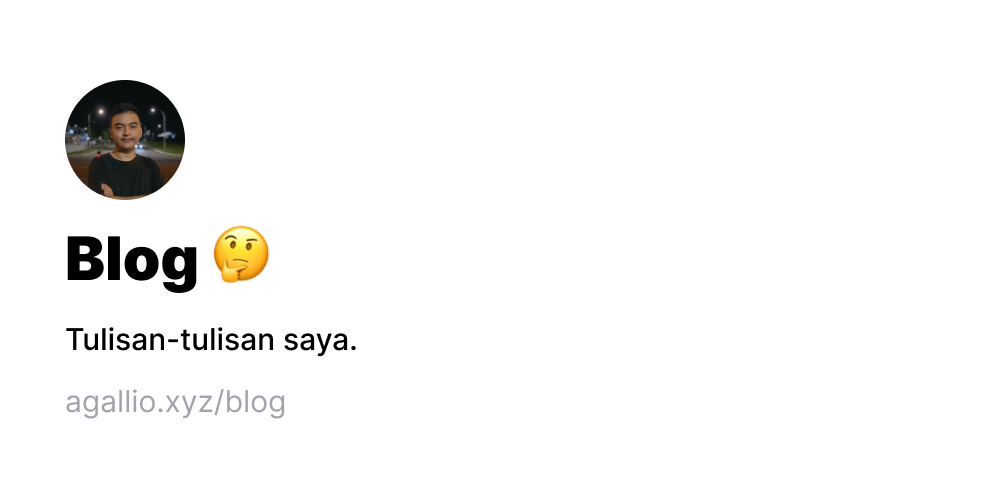
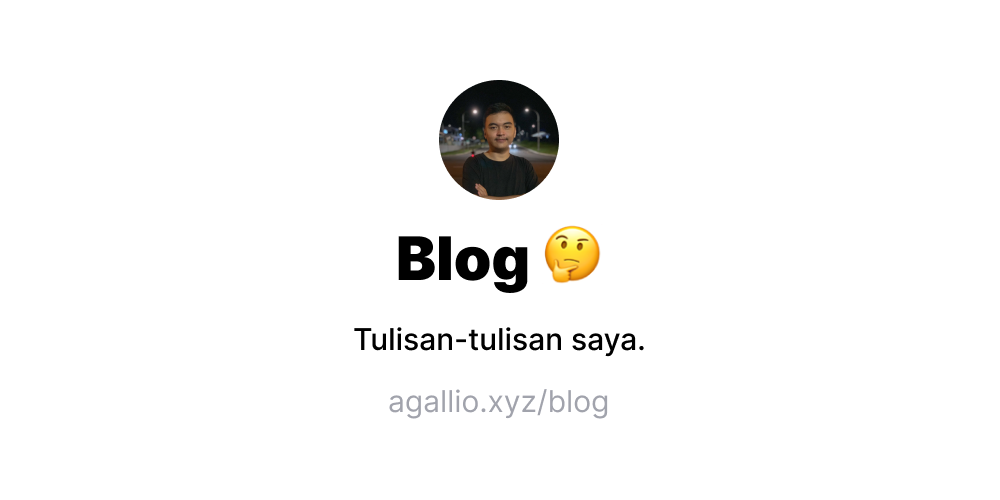
Update SEO config & switch to tailwind post

diff --git a/blog/src/pages/blog/index.js b/blog/src/pages/blog/index.js
@@ -11,35 +11,20 @@ import blogLocale from '@/locales/blog'
 import dayjs from '@/utils/dayjs'
 import { postFilePaths, POSTS_PATH } from '@/utils/mdx'
 
-export default function Blog({ posts, locale }) {
+export default function Blog({ posts, locale, seo }) {
   return (
     <>
       <Head>
-        <title>Blog | Agallio Samai</title>
+        <title>{seo[locale].title}</title>
       </Head>
-      <NextSeo
-        title="Blog | Agallio Samai"
-        description="Tulisan-tulisan saya."
-        openGraph={{
-          url: 'https://agallio.xyz/blog',
-          title: 'Blog | Agallio Samai',
-          description: 'Tulisan-tulisan saya.',
-          site_name: 'Agallio Samai',
-          images: [
-            {
-              url: 'http://agallio.xyz/images/og-blog.png',
-              alt: 'Blog - Agallio Samai',
-            },
-          ],
-        }}
-        twitter={{
-          cardType: 'summary_large_image',
-        }}
-      />
+      <NextSeo {...seo[locale]} />
 
       <div className="flex flex-col pt-28">
         <h1 className="mb-4 text-4xl tracking-wide font-black md:text-4xl dark:text-white">
-          Blog
+          Blog{' '}
+          <span role="img" aria-label="handwriting">
+            ✍🏻
+          </span>
         </h1>
         <p className="text-lg md:text-xl mb-4 text-gray-700 dark:text-gray-100">
           {blogLocale.description[locale]}
@@ -105,5 +90,46 @@ export function getStaticProps({ locale }) {
     }
   })
 
-  return { props: { posts, locale } }
+  const seo = {
+    id: {
+      title: 'Tentang Saya | Agallio Samai',
+      description: 'Tentang saya.',
+      openGraph: {
+        url: 'https://agallio.xyz/about',
+        title: 'Tentang Saya | Agallio Samai',
+        description: 'Tentang saya.',
+        site_name: 'Agallio Samai',
+        images: [
+          {
+            url: 'http://agallio.xyz/images/og-about.png',
+            alt: 'Tentang Saya - Agallio Samai',
+          },
+        ],
+      },
+      twitter: {
+        cardType: 'summary_large_image',
+      },
+    },
+    en: {
+      title: 'About Me | Agallio Samai',
+      description: 'About me.',
+      openGraph: {
+        url: 'https://agallio.xyz/en/about',
+        title: 'About Me | Agallio Samai',
+        description: 'About me.',
+        site_name: 'Agallio Samai',
+        images: [
+          {
+            url: 'http://agallio.xyz/images/og-en-about.png',
+            alt: 'About Me - Agallio Samai',
+          },
+        ],
+      },
+      twitter: {
+        cardType: 'summary_large_image',
+      },
+    },
+  }
+
+  return { props: { posts, locale, seo } }
 }

diff --git a/blog/src/locales/blog.js b/blog/src/locales/blog.js
@@ -1,5 +1,44 @@
-/* eslint-disable prettier/prettier */
 const blogLocale = {
+  seo: {
+    id: {
+      title: 'Blog | Agallio Samai',
+      description: 'Tulisan-tulisan saya.',
+      openGraph: {
+        url: 'https://agallio.xyz/blog',
+        title: 'Blog | Agallio Samai',
+        description: 'Tulisan-tulisan saya.',
+        site_name: 'Agallio Samai',
+        images: [
+          {
+            url: 'http://agallio.xyz/images/og-blog.png',
+            alt: 'Blog - Agallio Samai',
+          },
+        ],
+      },
+      twitter: {
+        cardType: 'summary_large_image',
+      },
+    },
+    en: {
+      title: 'Blog | Agallio Samai',
+      description: 'My writings.',
+      openGraph: {
+        url: 'https://agallio.xyz/en/blog',
+        title: 'Blog | Agallio Samai',
+        description: 'My writings.',
+        site_name: 'Agallio Samai',
+        images: [
+          {
+            url: 'http://agallio.xyz/images/og-en-blog.png',
+            alt: 'Blog - Agallio Samai',
+          },
+        ],
+      },
+      twitter: {
+        cardType: 'summary_large_image',
+      },
+    },
+  },
   description: {
     id: 'Isi dari halaman ini mayoritas tulisan saya di dunia software engineering dan karir saya dalam teknologi. Tulisan-tulisan ini berisi pendapat saya pribadi.',
     en: 'The content of this page is my writing in the world of software engineering and my career in technology. These writings contain my personal opinion.',

diff --git a/blog/src/locales/about.js b/blog/src/locales/about.js
@@ -1,5 +1,44 @@
 const aboutLocale = {
-  title: { id: 'Tentang | Agallio Samai', en: 'About Me | Agallio Samai' },
+  seo: {
+    id: {
+      title: 'Tentang Saya | Agallio Samai',
+      description: 'Tentang saya.',
+      openGraph: {
+        url: 'https://agallio.xyz/about',
+        title: 'Tentang Saya | Agallio Samai',
+        description: 'Tentang saya.',
+        site_name: 'Agallio Samai',
+        images: [
+          {
+            url: 'http://agallio.xyz/images/og-about.png',
+            alt: 'Tentang Saya - Agallio Samai',
+          },
+        ],
+      },
+      twitter: {
+        cardType: 'summary_large_image',
+      },
+    },
+    en: {
+      title: 'About Me | Agallio Samai',
+      description: 'About me.',
+      openGraph: {
+        url: 'https://agallio.xyz/en/about',
+        title: 'About Me | Agallio Samai',
+        description: 'About me.',
+        site_name: 'Agallio Samai',
+        images: [
+          {
+            url: 'http://agallio.xyz/images/og-en-about.png',
+            alt: 'About Me - Agallio Samai',
+          },
+        ],
+      },
+      twitter: {
+        cardType: 'summary_large_image',
+      },
+    },
+  },
   about_me: { id: 'Tentang Saya', en: 'About Me' },
   description: {
     id: `

diff --git a/blog/src/pages/blog/[slug].js b/blog/src/pages/blog/[slug].js
@@ -14,6 +14,8 @@ import autolinkHeadings from 'rehype-autolink-headings'
 
 import MDXComponents from '@/components/MDXComponents'
 
+import aboutLocale from '@/locales/about'
+
 import dayjs from '@/utils/dayjs'
 import { postFilePaths, POSTS_PATH } from '@/utils/mdx'
 
@@ -39,20 +41,13 @@ const BlogPost = ({ source, frontMatter, locale }) => {
         title={`${frontMatter.title} | Agallio Samai`}
         description={frontMatter.summary}
         openGraph={{
-          url: 'https://agallio.xyz/blog',
+          url: aboutLocale.seo[locale].openGraph.url,
           title: frontMatter.title,
           description: frontMatter.summary,
-          site_name: 'Agallio Samai',
-          images: [
-            {
-              url: 'http://agallio.xyz/images/og-blog.png',
-              alt: 'Blog - Agallio Samai',
-            },
-          ],
+          site_name: aboutLocale.seo[locale].openGraph.site_name,
+          images: aboutLocale.seo[locale].openGraph.images,
         }}
-        twitter={{
-          cardType: 'summary_large_image',
-        }}
+        twitter={aboutLocale.seo[locale].twitter}
       />
 
       <div className="flex flex-col pt-32">

diff --git a/blog/src/components/Header.js b/blog/src/components/Header.js
@@ -207,11 +207,11 @@ const Header = ({ router }) => {
                 onClick={handleI18n}
               >
                 {locale === 'id' ? (
-                  <span role="img" aria-label="Indonesia">
+                  <span role="img" aria-label="indonesian">
                     🇮🇩
                   </span>
                 ) : (
-                  <span role="img" aria-label="Inggris">
+                  <span role="img" aria-label="english">
                     🇺🇸
                   </span>
                 )}
@@ -277,11 +277,11 @@ const Header = ({ router }) => {
               onClick={handleI18n}
             >
               {locale === 'id' ? (
-                <span role="img" aria-label="Indonesia">
+                <span role="img" aria-label="indonesian">
                   🇮🇩
                 </span>
               ) : (
-                <span role="img" aria-label="Inggris">
+                <span role="img" aria-label="english">
                   🇺🇸
                 </span>
               )}

diff --git a/blog/src/pages/about.js b/blog/src/pages/about.js
@@ -16,27 +16,9 @@ export default function About() {
   return (
     <>
       <Head>
-        <title>{aboutLocale.title[locale]}</title>
+        <title>{aboutLocale.seo[locale].title}</title>
       </Head>
-      <NextSeo
-        title={aboutLocale.title[locale]}
-        description="Tentang saya."
-        openGraph={{
-          url: 'https://agallio.xyz/about',
-          title: 'Tentang | Agallio Samai',
-          description: 'Tentang saya.',
-          site_name: 'Agallio Samai',
-          images: [
-            {
-              url: 'http://agallio.xyz/images/og-about.png',
-              alt: 'Tentang - Agallio Samai',
-            },
-          ],
-        }}
-        twitter={{
-          cardType: 'summary_large_image',
-        }}
-      />
+      <NextSeo {...aboutLocale.seo[locale]} />
 
       <div className="flex flex-col pt-28">
         <div className="flex flex-col items-center">

diff --git a/blog/src/pages/404.js b/blog/src/pages/404.js
@@ -13,9 +13,7 @@ export default function NotFound() {
         {notFoundLocale.text[locale]}
       </h1>
       <Link href="/">
-        <a className="py-2 px-4 border border-green-600 rounded-lg text-green-600 transition transform text-center hover:text-white hover:border-green-600 hover:bg-green-600 dark:text-green-200 dark:border-green-200 dark:hover:bg-green-900">
-          {notFoundLocale.button[locale]}
-        </a>
+        <a className="bouncy-anchor text-xl">{notFoundLocale.button[locale]}</a>
       </Link>
     </div>
   )

diff --git a/blog/src/components/SEO.js b/blog/src/components/SEO.js
@@ -4,7 +4,7 @@ import { DefaultSeo } from 'next-seo'
 
 const SeoConfig = {
   title: 'Agallio Samai',
-  description: 'Web Engineer.',
+  description: '🇮🇩 Musician who code.',
   openGraph: {
     type: 'website',
     locale: 'id_ID',
@@ -12,7 +12,7 @@ const SeoConfig = {
     site_name: 'Agallio Samai',
     images: [
       {
-        url: 'http://agallio.xyz/images/og-aga.png',
+        url: 'http://agallio.xyz/images/og-main.png',
         alt: 'Agallio Samai',
       },
     ],

diff --git a/blog/src/pages/index.js b/blog/src/pages/index.js
@@ -58,7 +58,7 @@ export default function IndexPage() {
     <div className="flex flex-col pt-28">
       <h1 className="mb-6 text-3xl tracking-wide font-black md:text-4xl dark:text-white">
         {homeLocale.greetings[locale]}{' '}
-        <span role="img" aria-label="melambaikan tangan">
+        <span role="img" aria-label="handwaves">
           👋🏻
         </span>
       </h1>
